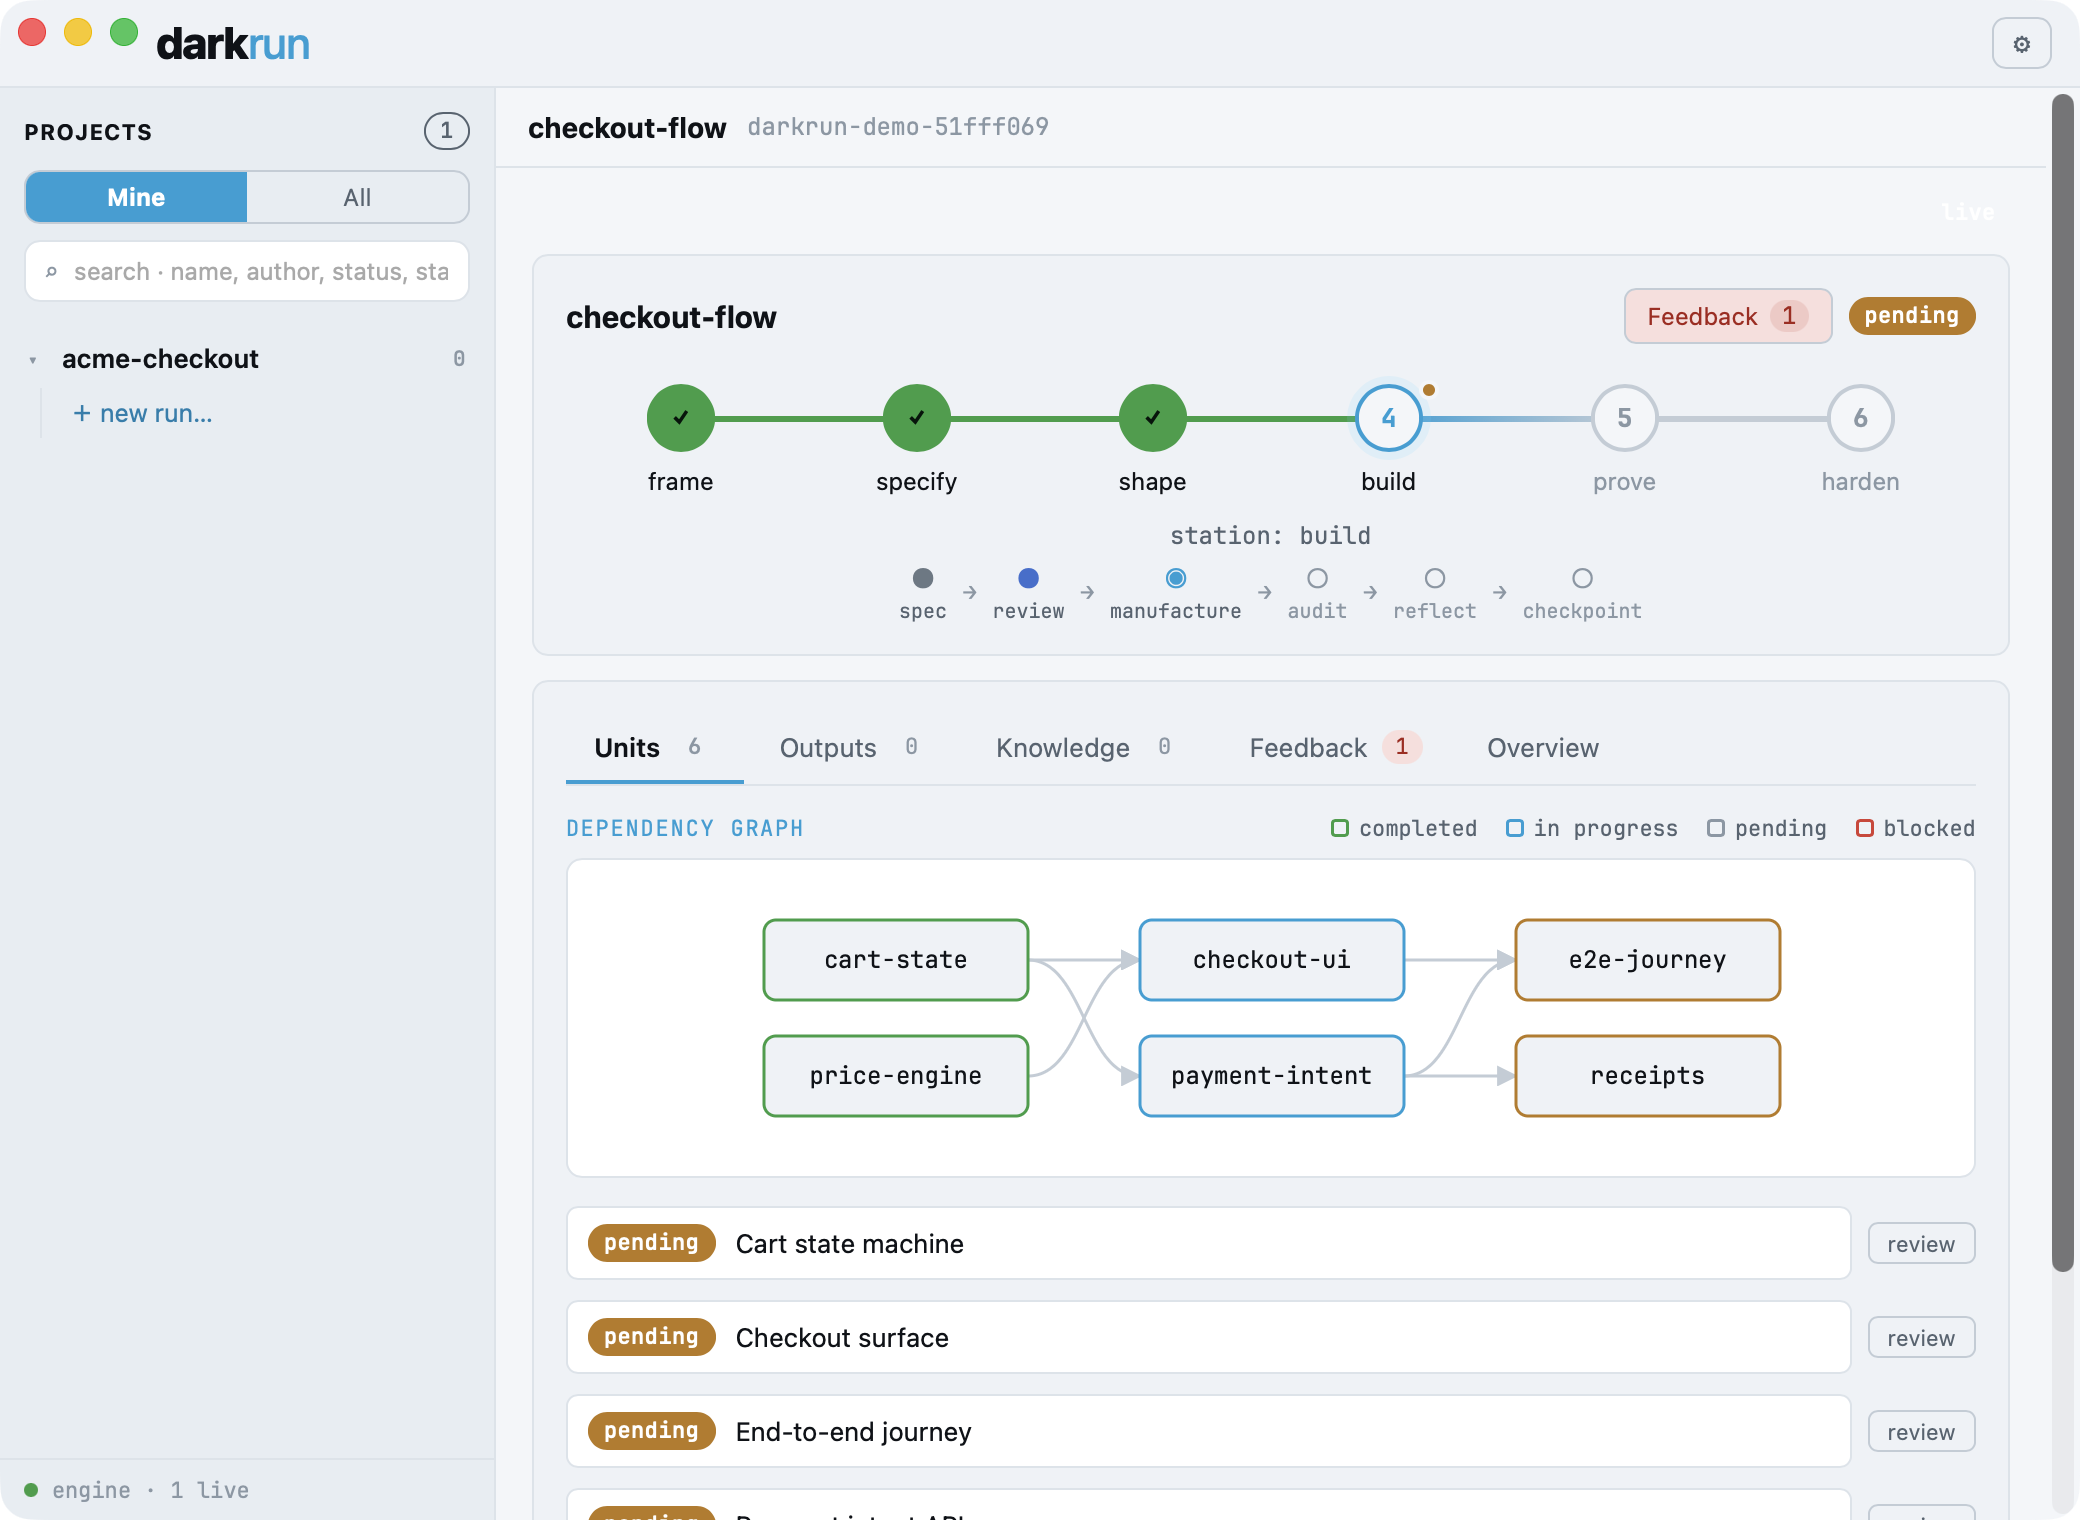
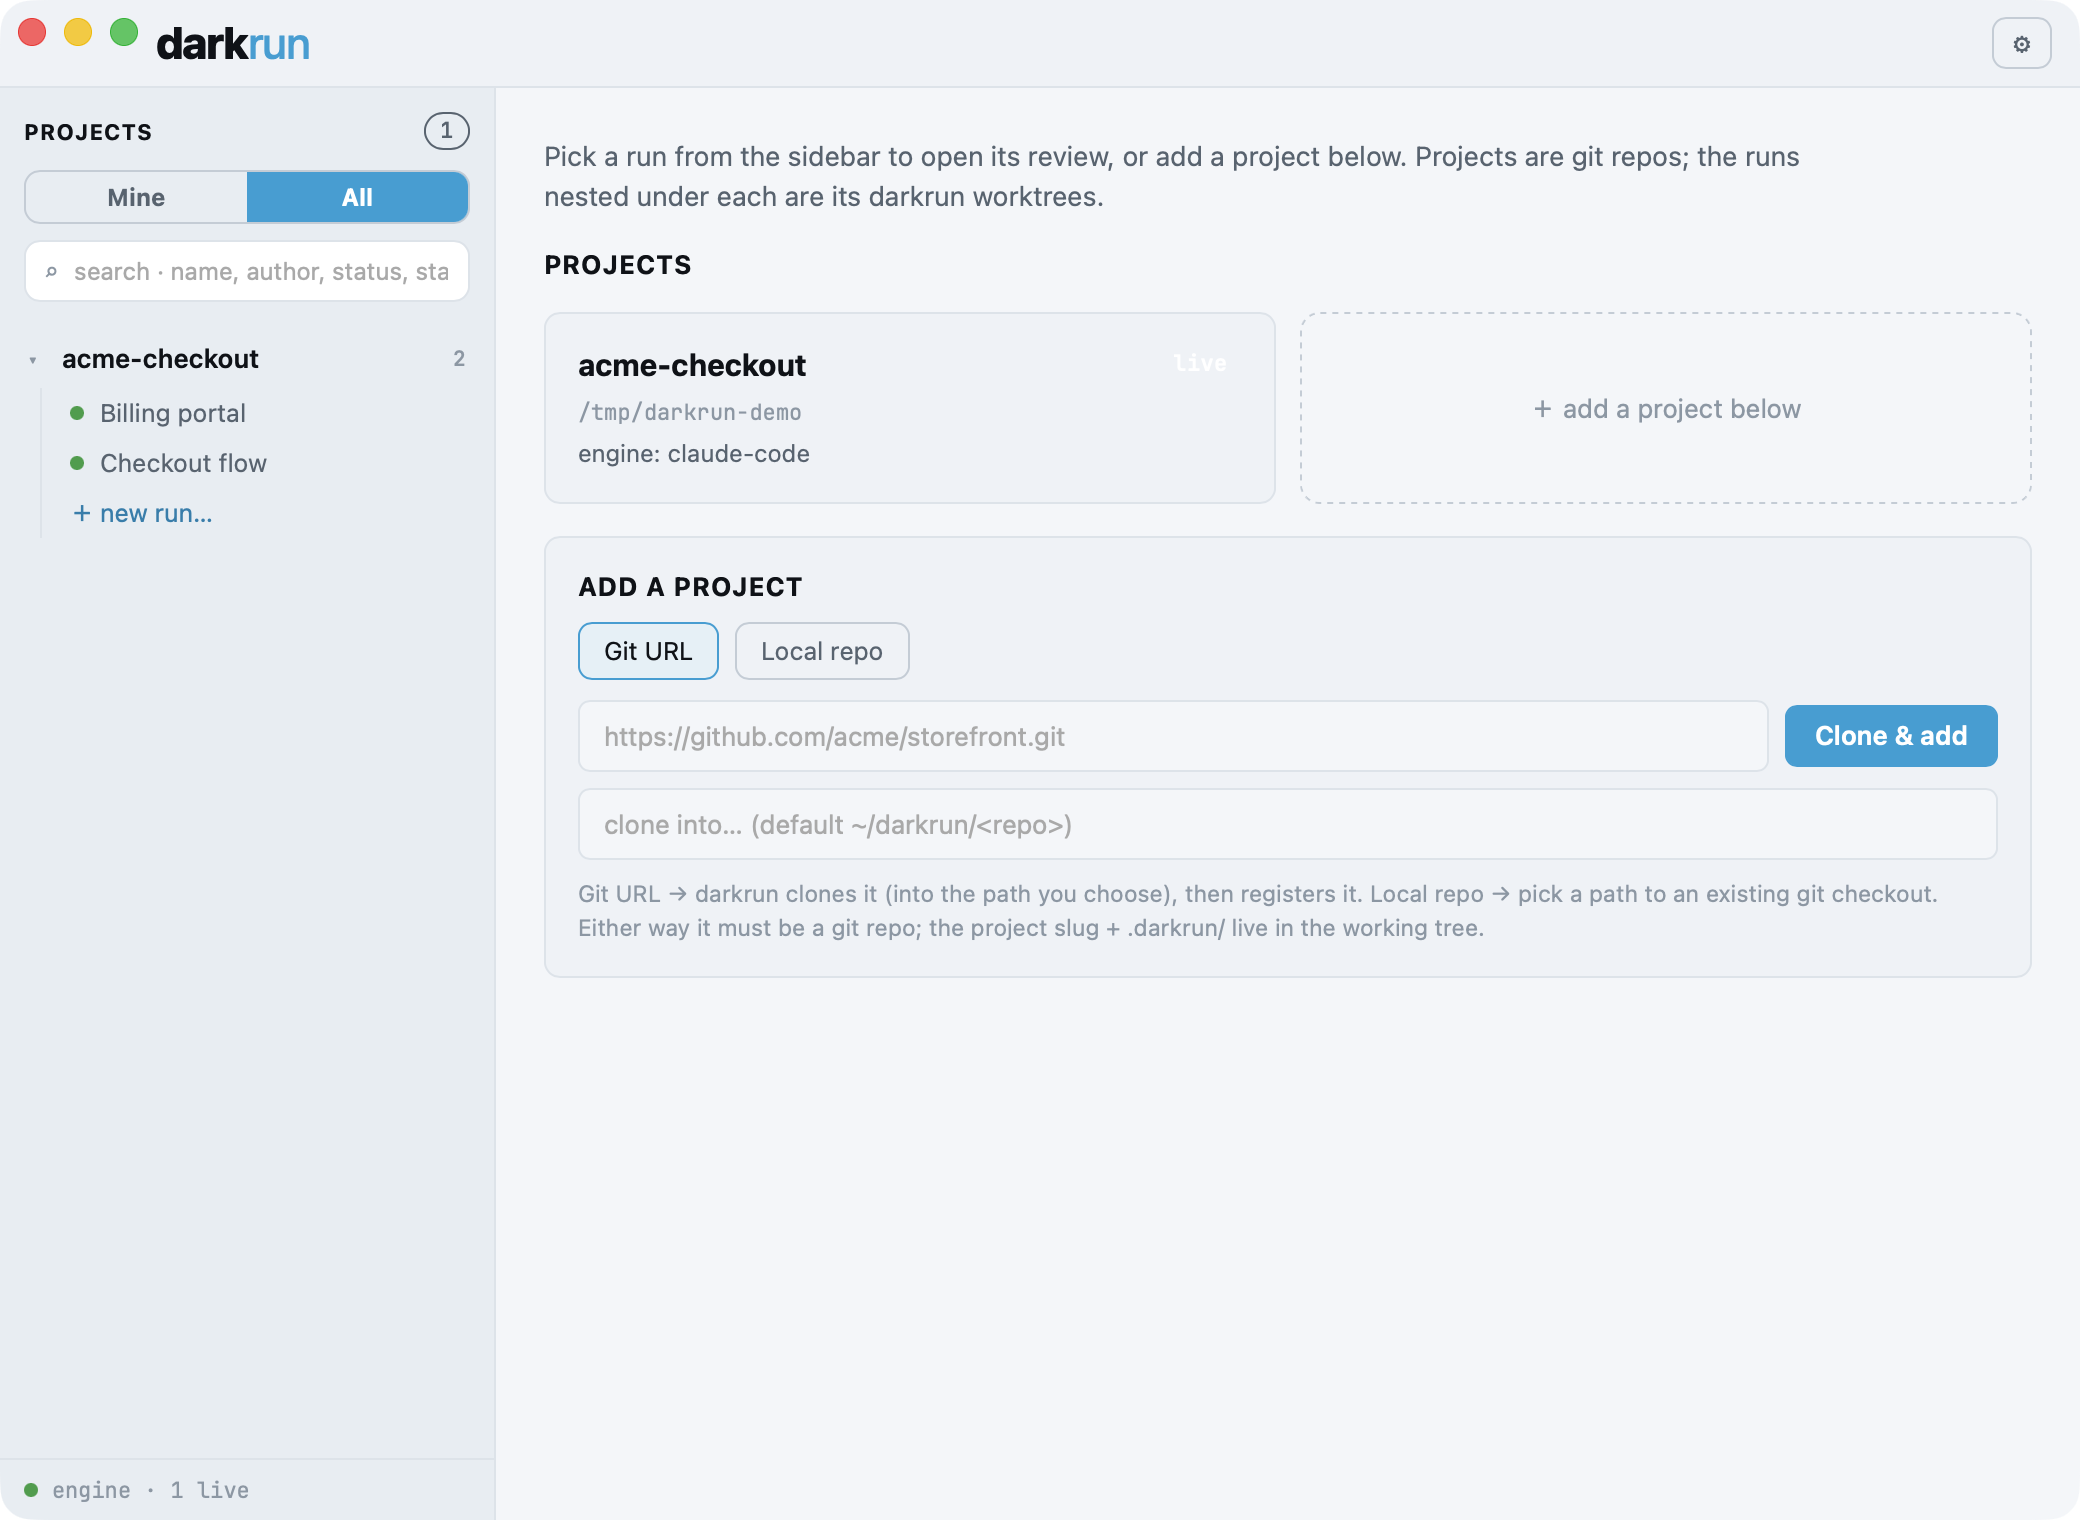
fix(desktop): key sidebar run lists by project slug, not display name
The run fetcher stored per-project runs under the engine SLUG while the
sidebar looked them up by the project's DISPLAY name — ever since
display names switched to repo names, the lookup never matched and
every project rendered zero runs ("no running sessions").

Run lists now key by the registry slug (the identity every engine of a
repo shares), merge across all engines serving the project (main
checkout + worktrees), dedupe by run slug, and carry each run's source
port so opening a worktree run talks to the worktree engine.

The website's "Projects & runs" slideshow screenshots are recaptured
from the fixed app (the old pair had accidentally captured the run
review — the first and last slides were the same image).

diff --git a/desktop/src/home.rs b/desktop/src/home.rs
@@ -49,8 +49,11 @@ use crate::wire::{self, ConnConfig, DiscoveredEngine};
 /// contribute the `port`/`harness` and flip a project to "live").
 #[derive(Clone, PartialEq)]
 struct Project {
-    /// Display name — the registry slug (the working-tree dir name carries the
-    /// hash suffix; the slug is the closest stable human label we have).
+    /// Registry slug — the project's stable identity (repo-name + path-hash).
+    /// The run fetcher keys per-project run lists by THIS, never the display
+    /// name: every engine of a repo (main checkout or worktree) shares it.
+    slug: String,
+    /// Display name — the repo's name (record name or path basename).
     name: String,
     /// Absolute repo root the project lives in.
     path: PathBuf,
@@ -64,6 +67,7 @@ impl Project {
     /// Project a discovered live engine into a [`Project`].
     fn from_engine(e: &DiscoveredEngine) -> Self {
         Project {
+            slug: e.slug.clone(),
             name: basename(&e.project_path).unwrap_or_else(|| e.slug.clone()),
             path: e.project_path.clone(),
             port: Some(e.port),
@@ -122,9 +126,13 @@ pub fn HomeApp(
     // re-polled. The sidebar projects render from this merged with the registry.
     let mut engines = use_signal(Vec::<DiscoveredEngine>::new);
 
-    // The per-project run lists, keyed by project name, refreshed by the run
-    // fetcher. The sidebar nests these under each live project.
-    let runs_by_project = use_signal(BTreeMap::<String, Vec<RunSummary>>::new);
+    // The per-project run lists — project SLUG -> run slug -> (engine port,
+    // run) — refreshed by the run fetcher. Keyed by the registry slug (the
+    // identity every engine of a repo shares), so a worktree engine's runs
+    // nest under the repo's project; each run keeps ITS engine's port so
+    // opening it talks to the engine that serves it.
+    let runs_by_project =
+        use_signal(BTreeMap::<String, BTreeMap<String, (u16, RunSummary)>>::new);
 
     // What the main pane shows. A pinned launch opens straight to that run (the
     // project label is filled in by the focus poller's first tick); otherwise the
@@ -179,13 +187,19 @@ pub fn HomeApp(
                         engines.set(found.clone());
                     }
 
-                    // 2. Per-project run lists.
-                    let mut map = BTreeMap::<String, Vec<RunSummary>>::new();
+                    // 2. Per-project run lists, merged across every engine
+                    //    serving the project (main checkout + worktrees) and
+                    //    deduped by run slug.
+                    let mut map =
+                        BTreeMap::<String, BTreeMap<String, (u16, RunSummary)>>::new();
                     for e in &found {
                         let mut c = base.clone();
                         c.port = e.port;
                         if let Ok(payload) = wire::fetch_runs(&c).await {
-                            map.insert(engine_display_name(e), payload.runs);
+                            let proj = map.entry(e.slug.clone()).or_default();
+                            for r in payload.runs {
+                                proj.entry(r.slug.clone()).or_insert((e.port, r));
+                            }
                         }
                     }
                     if map != *runs_by_project.peek() {
@@ -470,7 +484,7 @@ fn ThemeControl() -> Element {
 #[component]
 fn Sidebar(
     projects: Vec<Project>,
-    runs_map: BTreeMap<String, Vec<RunSummary>>,
+    runs_map: BTreeMap<String, BTreeMap<String, (u16, RunSummary)>>,
     selection: Signal<Selection>,
     mine_only: Signal<bool>,
     search: Signal<String>,
@@ -525,7 +539,10 @@ fn Sidebar(
                     for proj in visible.iter() {
                         ProjectSection {
                             proj: proj.clone(),
-                            runs: runs_map.get(&proj.name).cloned().unwrap_or_default(),
+                            runs: runs_map
+                                .get(&proj.slug)
+                                .map(|m| m.values().cloned().collect())
+                                .unwrap_or_default(),
                             selection,
                             mine_only,
                             search,
@@ -548,7 +565,7 @@ fn Sidebar(
 /// filter isn't excluding it for lack of authored runs.
 fn visible_projects(
     projects: &[Project],
-    runs_map: &BTreeMap<String, Vec<RunSummary>>,
+    runs_map: &BTreeMap<String, BTreeMap<String, (u16, RunSummary)>>,
     mine_only: bool,
     query: &str,
 ) -> Vec<Project> {
@@ -556,8 +573,9 @@ fn visible_projects(
     projects
         .iter()
         .filter(|p| {
-            let runs = runs_map.get(&p.name).map(Vec::as_slice).unwrap_or(&[]);
-            let any_run = runs.iter().any(|r| run_matches(r, mine_only, &q));
+            let empty = BTreeMap::new();
+            let runs = runs_map.get(&p.slug).unwrap_or(&empty);
+            let any_run = runs.values().any(|(_, r)| run_matches(r, mine_only, &q));
             // Keep a project with matching runs; also keep an engine-less /
             // run-less project whose name matches the search (or no search), so
             // the add/idle projects stay reachable. Under Mine with a non-empty
@@ -694,7 +712,7 @@ fn SidebarEmpty(mine_only: Signal<bool>, has_projects: bool) -> Element {
 #[component]
 fn ProjectSection(
     proj: Project,
-    runs: Vec<RunSummary>,
+    runs: Vec<(u16, RunSummary)>,
     selection: Signal<Selection>,
     mine_only: Signal<bool>,
     search: Signal<String>,
@@ -706,9 +724,9 @@ fn ProjectSection(
 
     let q = search.read().trim().to_ascii_lowercase();
     let mine = *mine_only.read();
-    let shown: Vec<RunSummary> = runs
+    let shown: Vec<(u16, RunSummary)> = runs
         .iter()
-        .filter(|r| run_matches(r, mine, &q))
+        .filter(|(_, r)| run_matches(r, mine, &q))
         .cloned()
         .collect();
 
@@ -772,11 +790,13 @@ fn ProjectSection(
             }
             if live && is_open {
                 div { style: "{runs_wrap}",
-                    for run in shown.iter() {
+                    for (port, run) in shown.iter() {
                         RunRow {
                             run: run.clone(),
                             project: proj.name.clone(),
-                            port: proj.port.unwrap_or(0),
+                            // The port of the ENGINE this run came from — a
+                            // worktree run opens against the worktree engine.
+                            port: *port,
                             selection,
                             drawer_open,
                         }
@@ -1112,6 +1132,7 @@ fn load_projects(engines: &[DiscoveredEngine]) -> Vec<Project> {
         .into_iter()
         .map(|rec| {
             let project = Project {
+                slug: rec.slug.clone(),
                 // The display name is the repo's name — record name first,
                 // else the path basename; never the hash-suffixed slug.
                 name: rec
@@ -1749,6 +1770,7 @@ mod data_render_tests {
 
     fn proj() -> Project {
         Project {
+            slug: "store-ab12cd34".into(),
             name: "store".into(),
             path: "/tmp/store".into(),
             port: Some(58616),
@@ -1777,15 +1799,19 @@ mod data_render_tests {
             let mine = use_signal(|| false);
             let search = use_signal(String::new);
             let drawer = use_signal(|| true);
+            // Keyed by the project SLUG (not the display name) — the join
+            // the run fetcher uses; each run carries its engine's port.
+            let mut by_run = BTreeMap::new();
+            by_run.insert("r".to_string(), (58616u16, run()));
             let mut runs_map = BTreeMap::new();
-            runs_map.insert("store".to_string(), vec![run()]);
+            runs_map.insert("store-ab12cd34".to_string(), by_run);
             rsx! {
                 Sidebar {
                     projects: vec![proj()], runs_map, selection,
                     mine_only: mine, search, drawer_open: drawer, live_count: 1,
                 }
                 ProjectSection {
-                    proj: proj(), runs: vec![run()], selection,
+                    proj: proj(), runs: vec![(58616u16, run())], selection,
                     mine_only: mine, search, drawer_open: drawer,
                 }
                 RunRow { run: run(), project: "store".to_string(), port: 58616, selection, drawer_open: drawer }
@@ -1808,7 +1834,7 @@ mod main_pane_render_tests {
     }
 
     fn proj() -> Project {
-        Project { name: "store".into(), path: "/tmp/store".into(), port: Some(58616), harness: Some("claude-code".into()) }
+        Project { slug: "store-ab12cd34".into(), name: "store".into(), path: "/tmp/store".into(), port: Some(58616), harness: Some("claude-code".into()) }
     }
 
     #[test]
@@ -1874,6 +1900,7 @@ mod component_render_tests {
 
     fn proj(name: &str, live: bool) -> Project {
         Project {
+            slug: format!("{name}-ab12cd34"),
             name: name.into(),
             path: format!("/tmp/{name}").into(),
             port: if live { Some(58616) } else { None },
@@ -1969,7 +1996,13 @@ mod helper_tests {
         }
     }
     fn proj(name: &str) -> Project {
-        Project { name: name.into(), path: format!("/tmp/{name}").into(), port: None, harness: None }
+        Project {
+            slug: format!("{name}-ab12cd34"),
+            name: name.into(),
+            path: format!("/tmp/{name}").into(),
+            port: None,
+            harness: None,
+        }
     }
 
     #[test]
@@ -1987,8 +2020,11 @@ mod helper_tests {
     #[test]
     fn visible_projects_keeps_matches_and_runless_projects() {
         let projects = vec![proj("store"), proj("docs")];
-        let mut runs_map: BTreeMap<String, Vec<RunSummary>> = BTreeMap::new();
-        runs_map.insert("store".into(), vec![run_with("active", true, "me")]);
+        let by_run = |r: RunSummary| BTreeMap::from([(r.slug.clone(), (58616u16, r))]);
+        let mut runs_map: BTreeMap<String, BTreeMap<String, (u16, RunSummary)>> =
+            BTreeMap::new();
+        // Keyed by the project SLUG — the display name never joins run lists.
+        runs_map.insert("store-ab12cd34".into(), by_run(run_with("active", true, "me")));
         // No query, all: a project with a matching run + a run-less project both show.
         let all = visible_projects(&projects, &runs_map, false, "");
         assert_eq!(all.len(), 2);
@@ -2000,8 +2036,9 @@ mod helper_tests {
         assert_eq!(by_name.len(), 1);
         assert_eq!(by_name[0].name, "docs");
         // Mine-only with a non-authored run and no name match hides the project.
-        let mut others: BTreeMap<String, Vec<RunSummary>> = BTreeMap::new();
-        others.insert("store".into(), vec![run_with("active", false, "x")]);
+        let mut others: BTreeMap<String, BTreeMap<String, (u16, RunSummary)>> =
+            BTreeMap::new();
+        others.insert("store-ab12cd34".into(), by_run(run_with("active", false, "x")));
         let hidden = visible_projects(&[proj("store")], &others, true, "");
         assert!(hidden.is_empty());
     }